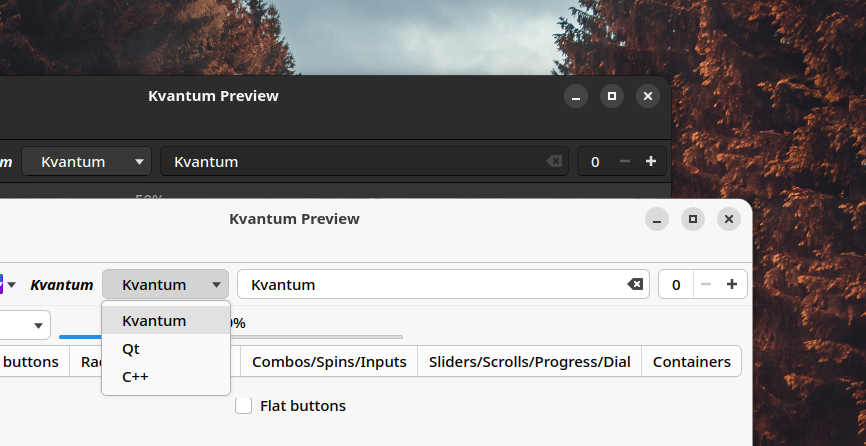
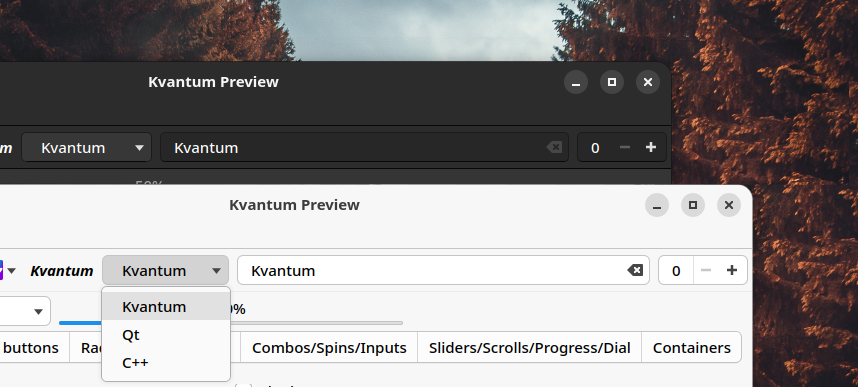
Fix screenshot

diff --git a/README.md b/README.md
@@ -2,7 +2,7 @@
 
 A Qt decoration plugin implementing Yaru-like client-side decorations.
 
-![Screenshot](screenshots.png)
+![Screenshot](screenshot.png)
 <details>
 <summary>Screenshot details</summary>
 
